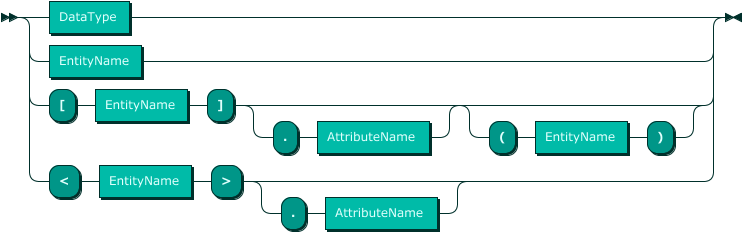
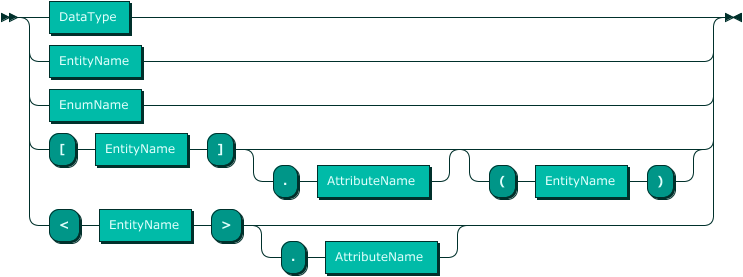
OQL-43 add enum support to docs

Changed region(s): [[0.0, 0.0, 1.0, 1.0]]

diff --git a/docs/syntax.html b/docs/syntax.html
@@ -199,8 +199,14 @@ vinctustech/oql
 <h4><a href="#data-modeling-grammar-rules" name="data-modeling-grammar-rules" class="anchor"><span class="anchor-link"></span></a>Data Modeling Grammar Rules</h4>
 <dl>
   <dt><em>Model</em></dt>
-  <dd>The complete data model is a series of entities.</dd>
+  <dd>The complete data model is a series of declarations. Currently, only <code>entity</code> and <code>enum</code> (enumeration) declarations are supported.</dd>
   <dd><img src="assets/images/dml-diagram/Model.png" alt="Model" /></dd>
+  <dt><em>Enum</em></dt>
+  <dd>Enums (enumerations) correspond to enum types in the database. An enum comprises an identifier matching the name of the corresponding enum type, and an ordered list of text values (not command separated) known as labels.</dd>
+  <dd><img src="assets/images/dml-diagram/Enum.png" alt="Entity" /></dd>
+  <dt><em>Label</em></dt>
+  <dd>Enum labels look like single quoted strings (so that you can have spaces in them).</dd>
+  <dd><img src="assets/images/dml-diagram/Label.png" alt="Entity" /></dd>
   <dt><em>Entity</em></dt>
   <dd>Entities correspond to tables in the database. An entity comprises an identifier matching the name of the corresponding table, which can be given an alias, and a series of attributes.</dd>
   <dd><img src="assets/images/dml-diagram/Entity.png" alt="Entity" /></dd>
@@ -215,7 +221,8 @@ vinctustech/oql
   <dt><em>Type</em></dt>
   <dd>There are several kinds of attribute types:
     <ul>
-      <li><code>DataType</code> corresponding to a database engine data type. These attributes correspond to table columns that are not foreign keys.</li>
+      <li><code>DataType</code> corresponding to a database data type. These attributes correspond to table columns that are not foreign keys.</li>
+      <li><code>EnumName</code> corresponding to a database enum type.</li>
       <li><code>EntityName</code> representing the many-to-one relationship (from the point of view of the current entity). This is the entity relationship type that corresponds to a table column that is a foreign key.</li>
       <li><code>[ EntityName ]</code> or <code>[ EntityName ] . AttributeName</code> representing the one-to-many relationship (from the point of view of the current entity). This is the array type that represents all the entities (rows) that are referencing the current entity.</li>
       <li><code>[ EntityName ] ( EntityName )</code> or <code>[ EntityName ] . AttributeName ( EntityName )</code> representing the many-to-many relationship. The second <code>EntityName</code> in parentheses refers to the junction or link entity (table).</li>
@@ -227,6 +234,8 @@ vinctustech/oql
   <dd>Any one of the basic data types that are commonly support by database systems. Any group of datatypes that begin with the same spelling (beyond the first one or two letters) are synonymous (e.g., <code>bool</code> and <code>boolean</code> refer to the same datatype).</dd>
   <dd>
   <p><img src="assets/images/dml-diagram/DataType.png" alt="DataType" /></p></dd>
+  <dt><em>EnumName</em></dt>
+  <dd>An EnumName is an identifier that corresponds to the identifier given as the enum name.</dd>
   <dt><em>EntityName</em></dt>
   <dd>An EntityName is an identifier that corresponds either to the identifier given as the entity name if it wasn&rsquo;t aliased, or to the alias if it was.</dd>
   <dt><em>AttributeName</em></dt>

diff --git a/docs/datatypes.html b/docs/datatypes.html
@@ -160,6 +160,7 @@ vinctustech/oql
     <li><a href="datatypes.html#boolean" class="header">Boolean</a></li>
     <li><a href="datatypes.html#uuid" class="header">UUID</a></li>
     <li><a href="datatypes.html#time-and-date" class="header">Time and Date</a></li>
+    <li><a href="datatypes.html#enumerated-types" class="header">Enumerated Types</a></li>
   </ul></li>
 </ul>
 </nav>
@@ -188,6 +189,7 @@ vinctustech/oql
     <li><a href="datatypes.html#boolean" class="header">Boolean</a></li>
     <li><a href="datatypes.html#uuid" class="header">UUID</a></li>
     <li><a href="datatypes.html#time-and-date" class="header">Time and Date</a></li>
+    <li><a href="datatypes.html#enumerated-types" class="header">Enumerated Types</a></li>
   </ul></li>
 </ul>
 </nav>
@@ -227,7 +229,8 @@ vinctustech/oql
 <p>There are two data types relating to time and date:</p>
 <h3><a href="#timestamps" name="timestamps" class="anchor"><span class="anchor-link"></span></a>Timestamps</h3>
 <p>Timestamps are denoted <code>timestamp</code> which corresponds to the PostgreSQL <code>TIMESTAMP WITHOUT TIME ZONE</code> data type and materializes as a TypeScript <code>Date</code> type object or a Scala <code>Instant</code> type object.</p>
-<h3><a href="#dates" name="dates" class="anchor"><span class="anchor-link"></span></a>Dates</h3>
+<h2><a href="#enumerated-types" name="enumerated-types" class="anchor"><span class="anchor-link"></span></a>Enumerated Types</h2>
+<p>OQL provides support for PostgreSQL enumerated (enum) types. The enum needs to be declared (not necessarily before it is used). The syntax for declaring an enum is given <a href="syntax.html#data-modeling-grammar-rules">here</a>. Other than declaring the enum and then using its name as a type name for attribute types, there&rsquo;s nothing special that needs to be done to use enums. You can treat them as strings in queries and mutations.</p>
 </div>
 <div>
 <a href="https://github.com/vinctustech/oql/tree/v1.0.0-RC.4.2/src/main/paradox/datatypes.md" title="Edit this page" class="md-source-file md-edit">

diff --git a/src/main/paradox/syntax.md b/src/main/paradox/syntax.md
@@ -10,8 +10,16 @@ An "Entity-Relationship" style language is used to describe the database.  Only 
 #### Data Modeling Grammar Rules
 
 *Model*
-: The complete data model is a series of entities.
+: The complete data model is a series of declarations. Currently, only `entity` and `enum` (enumeration) declarations are supported.
 : ![Model](.../dml-diagram/Model.png)
+
+*Enum*
+: Enums (enumerations) correspond to enum types in the database. An enum comprises an identifier matching the name of the corresponding enum type, and an ordered list of text values (not command separated) known as labels.
+: ![Entity](.../dml-diagram/Enum.png)
+
+*Label*
+: Enum labels look like single quoted strings (so that you can have spaces in them).
+: ![Entity](.../dml-diagram/Label.png)
 
 *Entity*
 : Entities correspond to tables in the database. An entity comprises an identifier matching the name of the corresponding table, which can be given an alias, and a series of attributes.
@@ -30,7 +38,8 @@ An "Entity-Relationship" style language is used to describe the database.  Only 
 
 *Type*
 : There are several kinds of attribute types:
-    - `DataType` corresponding to a database engine data type. These attributes correspond to table columns that are not foreign keys.
+    - `DataType` corresponding to a database data type. These attributes correspond to table columns that are not foreign keys.
+    - `EnumName` corresponding to a database enum type.
     - `EntityName` representing the many-to-one relationship (from the point of view of the current entity). This is the entity relationship type that corresponds to a table column that is a foreign key.
     - `[ EntityName ]` or `[ EntityName ] . AttributeName` representing the one-to-many relationship (from the point of view of the current entity). This is the array type that represents all the entities (rows) that are referencing the current entity.
     - `[ EntityName ] ( EntityName )` or `[ EntityName ] . AttributeName ( EntityName )` representing the many-to-many relationship.  The second `EntityName` in parentheses refers to the junction or link entity (table).
@@ -41,6 +50,9 @@ An "Entity-Relationship" style language is used to describe the database.  Only 
 : Any one of the basic data types that are commonly support by database systems. Any group of datatypes that begin with the same spelling (beyond the first one or two letters) are synonymous (e.g., `bool` and `boolean` refer to the same datatype).
 
 : ![DataType](.../dml-diagram/DataType.png)
+
+*EnumName*
+: An EnumName is an identifier that corresponds to the identifier given as the enum name.
 
 *EntityName*
 : An EntityName is an identifier that corresponds either to the identifier given as the entity name if it wasn't aliased, or to the alias if it was.

diff --git a/src/main/paradox/datatypes.md b/src/main/paradox/datatypes.md
@@ -62,4 +62,7 @@ There are two data types relating to time and date:
 
 Timestamps are denoted `timestamp` which corresponds to the PostgreSQL `TIMESTAMP WITHOUT TIME ZONE` data type and materializes as a TypeScript `Date` type object or a Scala `Instant` type object.
 
-### Dates
+Enumerated Types
+----------------
+
+OQL provides support for PostgreSQL enumerated (enum) types.  The enum needs to be declared (not necessarily before it is used).  The syntax for declaring an enum is given @ref:[here](syntax.md#data-modeling-grammar-rules).  Other than declaring the enum and then using its name as a type name for attribute types, there's nothing special that needs to be done to use enums. You can treat them as strings in queries and mutations.
